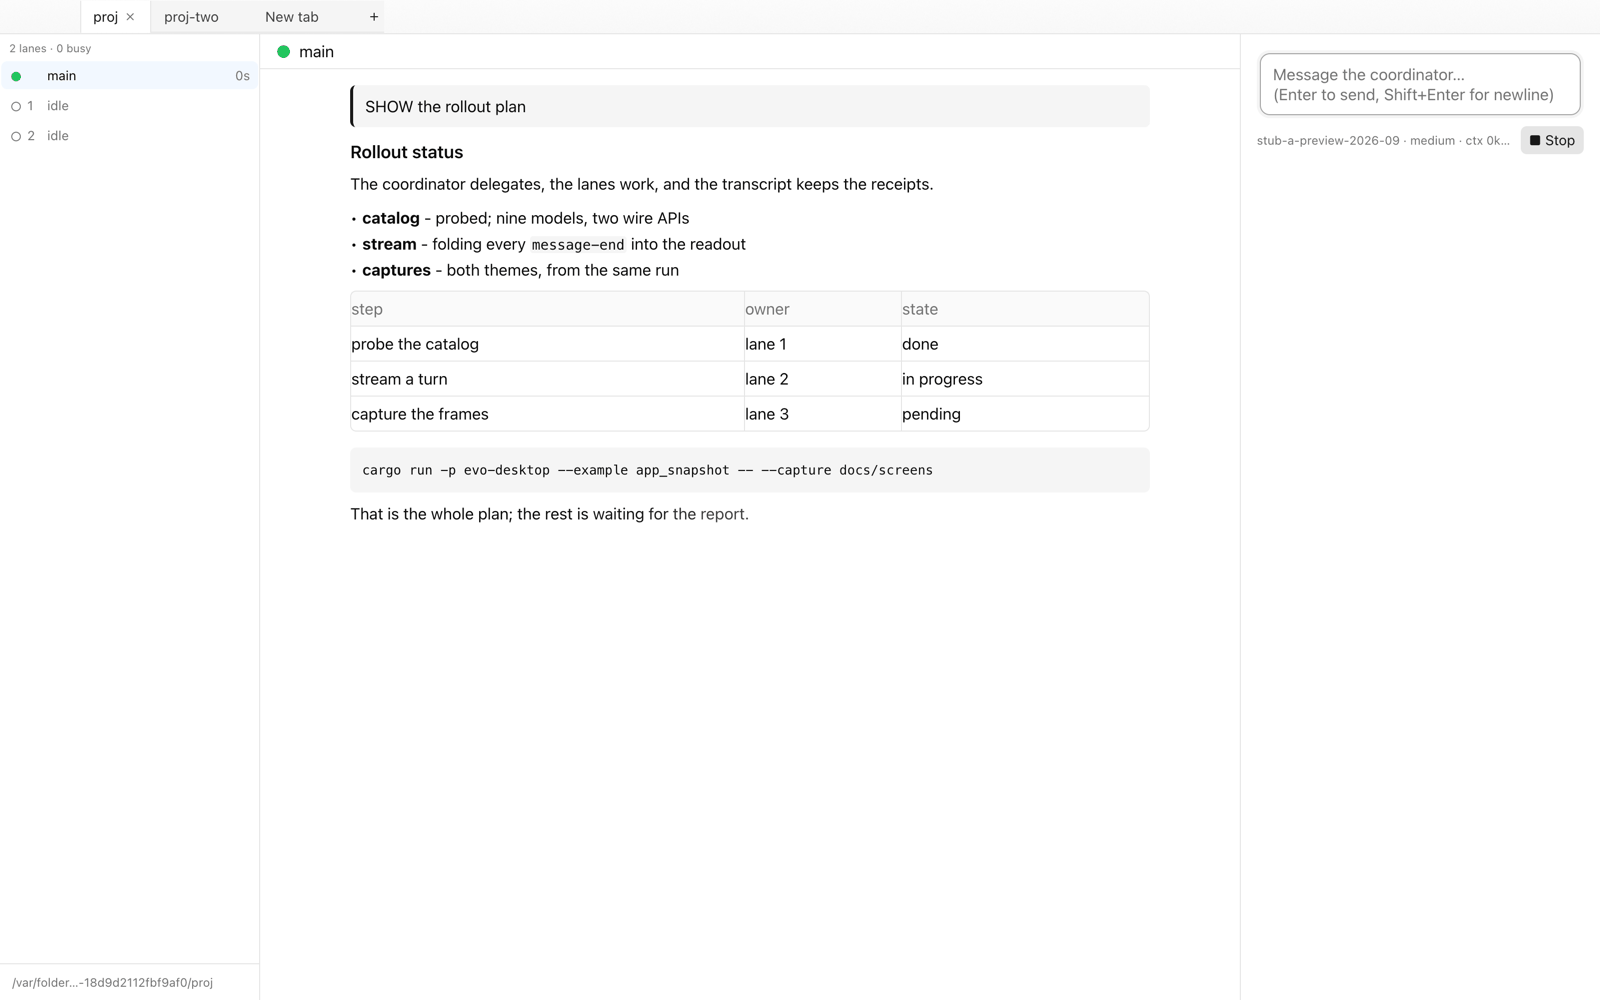
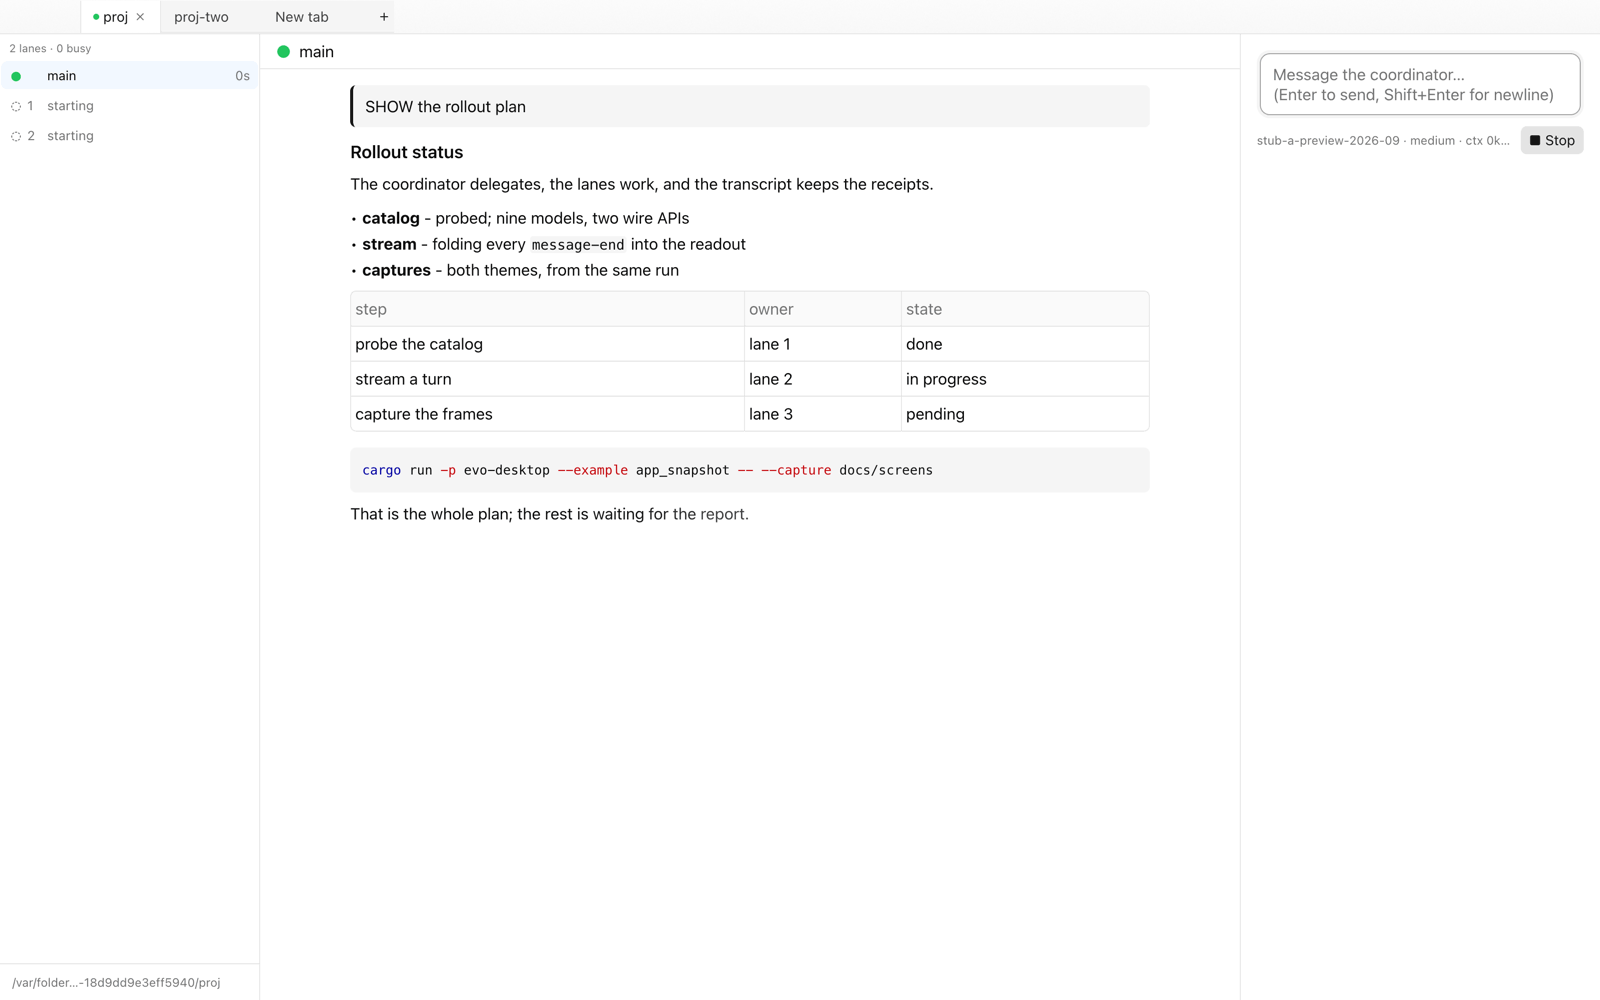
docs(screens): the golden set re-taken at the tree that ships
Twenty captures from one stub run of app_snapshot at 1x, quantised to
at most 192 colours with +dither (much closer to the 1x render than
error diffusion on flat chrome). They now show what landed since the
last set: tab activity dots and the strip scrolled to the shown tab,
the focus ring on the first chooser, lane glyphs and step clocks, the
highlighted fence and table, the composer readout, and lane notices
as quiet rows. docs/screens.md records the recipe and the corrected
descriptions. OCR finds no private markers in any frame.

diff --git a/docs/screens.md b/docs/screens.md
@@ -9,10 +9,19 @@ cargo run -p evo-desktop --example app_snapshot -- --capture docs/screens --scal
 
 Every state is captured twice, light and dark. The pictures are 1600×1000 *points*
 (§7.1's window size); `--scale 1` renders them at 1×, so a file is 1600×1000
-pixels and the twenty files in this directory are 1.2 MB together. The example's
+pixels and the twenty files in this directory are 1.0 MB together. The example's
 default is 2× (3200×2000 pixels, ~9 MB for the set), which is what to use when
-reading small type; `--scale 1` is what is committed, then quantised to 192
-colours.
+reading small type; `--scale 1` is what is committed, then quantised to at most
+192 colours:
+
+```sh
+magick <shot>.png -background white -alpha remove -alpha off +dither -colors 192 PNG8:<shot>.png
+```
+
+`+dither` is the point of that line: error diffusion turns the flat chrome
+noisy, and measurably wrong — `compare -metric RMSE` against the 1× render is
+0.019 with the default dither and 0.0008–0.0017 with `+dither`, which is what
+these files come out of (110–172 colours, not a full 192).
 
 The pictures are a *golden* set — nothing re-checks them — so take them again
 after a change to the chrome, the tab page or the transcript and compare by eye.
@@ -21,14 +30,14 @@ ones without saving them, which is the cheap way to re-take the last few.
 
 | capture | what it shows |
 |---|---|
-| `01-launch-light.png`, `01-launch-dark.png` | The app at launch (§7.2): one empty tab whose three choosers stand on `Default`, and the six resumable swarms the scan found — the newest of them `~/coding/evo-gui`, `6 lanes`, `11m ago`, `coordinator: claude-opus-5-5`. |
-| `01b-lanes-chooser-light.png`, `01b-lanes-chooser-dark.png` | The lanes chooser open (§9.4), its menu filled from the catalog: five models a quarantined lane may be given, and `claude-opus-5-5` greyed with *needs an extension API — set it in swarm.lisp*. |
-| `02-three-tabs-light.png`, `02-three-tabs-dark.png` | Three tabs — two running swarms and an empty one — with the first mid-stream: a heading, a list, a table and a code fence, all rendered by the transcript's markdown (§2.8). |
+| `01-launch-light.png`, `01-launch-dark.png` | The app at launch (§7.2): one empty tab whose three choosers stand on `Default` — the first of them, `Coordinator model`, wearing the focus ring, because a tab puts the keyboard where its work starts — and the six resumable swarms the scan found, the newest of them `~/coding/evo-gui`, `6 lanes`, `11m ago`, `coordinator: claude-opus-5-5`. |
+| `01b-lanes-chooser-light.png`, `01b-lanes-chooser-dark.png` | The lanes chooser open (§9.4), its menu filled from the catalog: five models a quarantined lane may be given, and `claude-opus-5-5` greyed with *needs an extension API — set it in swarm.lisp*. The menu holds six rows and shows five and a half — `kimi-k2-0905` is cut at the fold, with no bar to say the menu scrolls. |
+| `02-three-tabs-light.png`, `02-three-tabs-dark.png` | Three tabs — two running swarms and an empty one — with the first mid-stream: a heading, a list, a table and a code fence, all rendered by the transcript's markdown (§2.8). The shown tab wears the activity dot the strip puts before a running coordinator's label, and its two lanes are still `starting` — the swarm is up before its lanes are. |
 | `03-lane-todos-light.png`, `03-lane-todos-dark.png` | Lane 1 selected (§7.3, §9.3): the task it was delegated, the `todo` call it made, the write-up it streamed, and the checklist panel — `Todos 1/3`, one item in each state. |
 | `04-tool-expanded-light.png`, `04-tool-expanded-dark.png` | The coordinator's `delegate` call opened onto its arguments and its result (§2.8). |
 | `05-boot-failure-light.png`, `05-boot-failure-dark.png` | A swarm that could not start (§9.7): *Could not start a swarm*, the folder, the server's log tail, `Retry` and `Close`. |
 | `06-reconnecting-light.png`, `06-reconnecting-dark.png` | The coordinator's stream gone quiet (§9.7): the amber `reconnecting` badge on the `main` row, the spinner row in the centre, and a disabled `Send`. |
-| `07-tab-strip-light.png`, `07-tab-strip-dark.png` | The tab strip past its width (§7.1): fourteen tabs, ten of them folders whose names the strip truncates, and the last one a live swarm. The strip is scrolled to the tab being shown — the last one, with its `×` — so the twelve visible tabs are the twelve newest and the `+` stays inside the window. |
+| `07-tab-strip-light.png`, `07-tab-strip-dark.png` | The tab strip past its width (§7.1): fourteen tabs, ten of them folders whose names the strip truncates, and the last one a live swarm. The strip is scrolled to the tab being shown — the last one, with its `×` — so the seven tabs on screen are the seven newest, the first of them clipped at the window's left edge, and the `+` stays inside the window. |
 | `08-narrow-1000x700-light.png`, `08-narrow-1000x700-dark.png` | The tab page at §7.1's smallest window, 1000×700: three columns side by side, the coordinator's answer and the `delegate` row it made, lane 1's task ellipsized to `SLOW: walk the narrow layo…` in the lane list with its step clock beside it, the readout ellipsized behind `ctx 7…`, the composer's card, and nothing overlapping. |
 | `09-bad-run-light.png`, `09-bad-run-dark.png` | A run that ended badly (§5, §9.5): the compaction a full context forced (`Compacting context…`, `Context compacted`), the provider dying mid-stream four times (`Retrying provider (n/4)`), and the run's last word — `Run failed: Provider request failed after 4 attempts: Stream ended without a terminal event (truncated response)`. |
 
@@ -104,8 +113,10 @@ cargo run -p evo-desktop --example real_gui_run -- --capture docs/screens/real -
 | `real-03-lane-transcript.png` | lane 1 selected, its own transcript (§7.3) |
 | `real-04-follow-up.png` | the final state: the report relayed back and answered |
 
-They are 1× (1600×1000 pixels each, 0.15 MB together) and quantised the same way
-as the twenty above. The session's injected context shows as one collapsed
+They are 1× (1600×1000 pixels each, 0.14 MB together) and quantised the way the
+set above was before `+dither` replaced error diffusion — 192 colours, no
+`+dither`. Their raw renders are gone, so only a re-run of the proof could bring
+them onto the recipe above. The session's injected context shows as one collapsed
 `Context · global memory` line in each of them, which is what makes them safe to
 commit at all — the run that produced the first set drew the user's own memory
 snapshot into every frame. `docs/proofs-real.md` §4 is their proof: the command,
